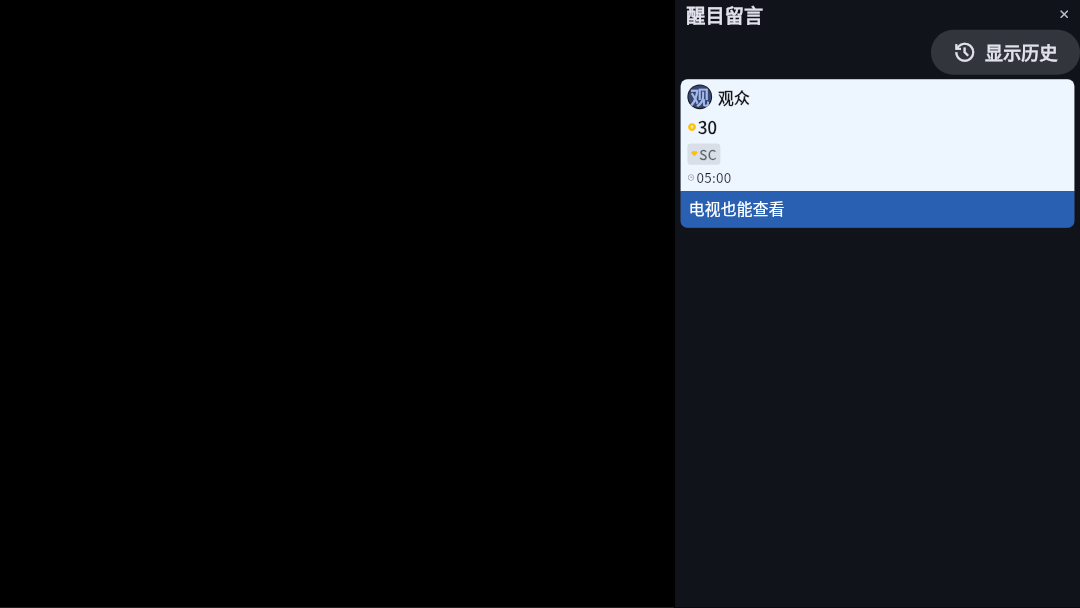
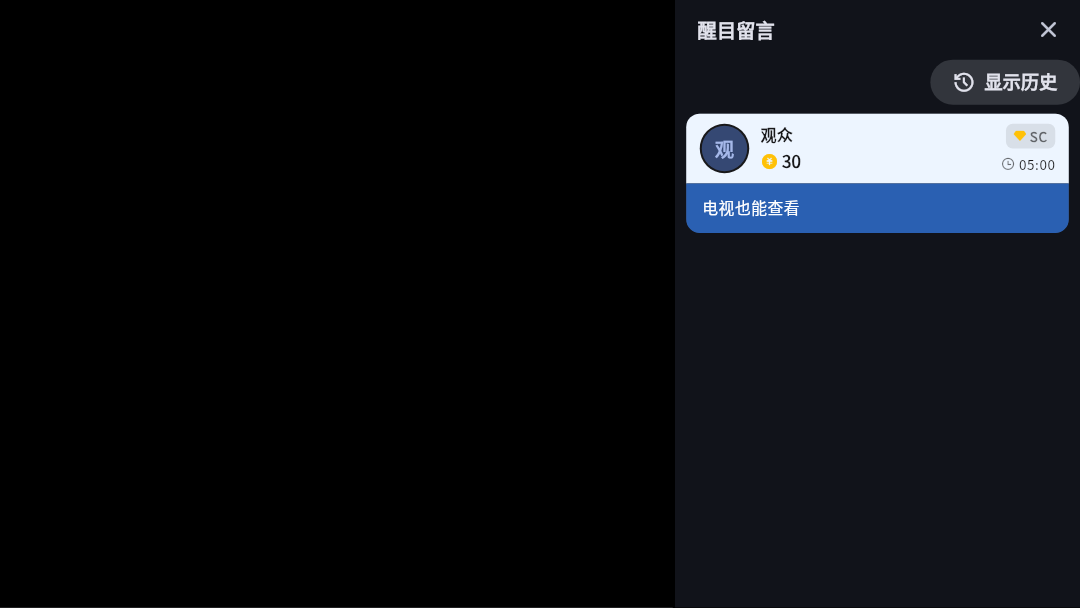
[V02.23] Scale the complete super-chat panel across TV resolutions

Changed region(s): [[0.6111, 0.0312, 1.0, 0.4062], [0.6111, 0.0, 0.7333, 0.0625]]

diff --git a/apps/pure_live/lib/tv/room/tv_super_chat_panel.dart b/apps/pure_live/lib/tv/room/tv_super_chat_panel.dart
@@ -62,28 +62,42 @@ class _TvSuperChatPanelState extends State<TvSuperChatPanel> {
   @override
   Widget build(BuildContext context) {
     final media = MediaQuery.of(context);
-    return MediaQuery(
-      // Shared phone text uses the TV's 960 x 540 canvas, like TvScale.px.
-      data: media.copyWith(textScaler: TextScaler.linear(media.textScaler.scale(1) * TvScale.of(context).unit * 2)),
-      child: Focus(
-        focusNode: widget.focusNode,
-        autofocus: true,
-        onKeyEvent: _key,
-        child: RoomSuperChatPanel(
-          key: const ValueKey('panel-super-chats'),
-          controller: widget.controller,
-          scrollController: _scroll,
-          historyControlBuilder: ({required shown, required toggle}) => MediaQuery(
-            data: media,
-            child: TvButton(
-              key: const ValueKey('super-chat-history-toggle'),
-              focusNode: _history,
-              label: i18n(shown ? 'super_chat_hide_history' : 'super_chat_show_history'),
-              icon: AppIcons.watchHistory,
-              onTap: toggle,
+    final scale = TvScale.of(context).px(1);
+    // Scale the shared panel's complete canvas, including its header and
+    // hit targets. Scaling only text clips the fixed-height header at 4K.
+    return LayoutBuilder(
+      builder: (context, bounds) => FittedBox(
+        fit: BoxFit.fill,
+        alignment: Alignment.topLeft,
+        child: SizedBox(
+          width: bounds.maxWidth / scale,
+          height: bounds.maxHeight / scale,
+          child: MediaQuery(
+            data: media.copyWith(
+              size: media.size / scale,
+              padding: media.padding / scale,
+              viewPadding: media.viewPadding / scale,
+              viewInsets: media.viewInsets / scale,
+            ),
+            child: Focus(
+              focusNode: widget.focusNode,
+              autofocus: true,
+              onKeyEvent: _key,
+              child: RoomSuperChatPanel(
+                key: const ValueKey('panel-super-chats'),
+                controller: widget.controller,
+                scrollController: _scroll,
+                historyControlBuilder: ({required shown, required toggle}) => TvButton(
+                  key: const ValueKey('super-chat-history-toggle'),
+                  focusNode: _history,
+                  label: i18n(shown ? 'super_chat_hide_history' : 'super_chat_show_history'),
+                  icon: AppIcons.watchHistory,
+                  onTap: toggle,
+                ),
+                onClose: widget.onClose,
+              ),
             ),
           ),
-          onClose: widget.onClose,
         ),
       ),
     );

diff --git a/apps/pure_live/test/tv/tv_test.dart b/apps/pure_live/test/tv/tv_test.dart
@@ -1,6 +1,7 @@
 import 'dart:async';
 
 import 'package:flutter/material.dart';
+import 'package:flutter/rendering.dart';
 import 'package:flutter/services.dart';
 import 'package:flutter_riverpod/flutter_riverpod.dart';
 import 'package:flutter_test/flutter_test.dart';
@@ -221,6 +222,17 @@ void main() {
     expect(find.byKey(const ValueKey('panel-super-chats')), findsOneWidget);
     expect(find.text('电视也能查看'), findsOneWidget);
     await captureQaFrame(tester, 'tv-super-chat-panel');
+    for (final size in [const Size(3840, 2160), const Size(1280, 720)]) {
+      tester.view.physicalSize = size;
+      await tester.pump(const Duration(seconds: 1));
+      final heading = tester.renderObject<RenderParagraph>(find.byKey(const ValueKey('room-panel-title')));
+      expect(
+        heading.getMinIntrinsicHeight(heading.size.width),
+        lessThanOrEqualTo(heading.size.height + 0.1),
+        reason: 'the title must fit inside the panel header at $size',
+      );
+      await captureQaFrame(tester, size.width == 3840 ? 'tv-super-chat-4k' : 'tv-super-chat-720p');
+    }
     final index = room.index;
     await _press(tester, LogicalKeyboardKey.arrowDown);
     expect(room.index, index);

diff --git a/docs/A-界面设计/A07-直播间界面/A07.26-全屏醒目留言入口/review.md b/docs/A-界面设计/A07-直播间界面/A07.26-全屏醒目留言入口/review.md
@@ -16,3 +16,6 @@
 
 
 2026-10-23 补充自查：扩展同一电视回归用例，原候选版无法用方向键聚焦历史开关（tv-history-before.log 失败）。改用已有 TvButton 作为同一 SuperChatList 的开关，仅定制输入组件；列表顶部按上或左右键到历史开关，OK 切换，按下回到滚动，Back 仍先关面板；tv-history-after.log 通过。未扩大历史保留范围。首轮完整门禁主动停止以纳入此修正，最终同提交门禁另跑，不能引用首轮为通过。
+
+
+4K 扩展回归：只缩放文字会使标题固有高度 102 超过固定 52 的标题栏（tv-4k-before.log 失败）。改为将同一 RoomSuperChatPanel 的完整画布连同标题、按钮和点击区域统一缩放，复用列表与历史状态；4K、720p 的标题尺寸及遥控历史/返回回归通过（tv-scale-visual-final.log）。补充检查期间未推送，最终完整门禁按合并后的修正另跑。

diff --git a/docs/A-界面设计/A07-直播间界面/A07.26-全屏醒目留言入口/record.md b/docs/A-界面设计/A07-直播间界面/A07.26-全屏醒目留言入口/record.md
@@ -24,3 +24,6 @@
 
 
 完整门禁第三轮仅 packages/live_store test 失败：新增 showFullscreenSuperChat 未登记到 newInV4 默认值表。按既有基线规则登记默认 true，保留完整键集校验，不删除或放宽断言。设置默认值和备份测试已通过；最终完整门禁另跑。
+
+
+4K 扩展回归：只缩放文字会使标题固有高度 102 超过固定 52 的标题栏（tv-4k-before.log 失败）。改为将同一 RoomSuperChatPanel 的完整画布连同标题、按钮和点击区域统一缩放，复用列表与历史状态；4K、720p 的标题尺寸及遥控历史/返回回归通过（tv-scale-visual-final.log）。补充检查期间未推送，最终完整门禁按合并后的修正另跑。
